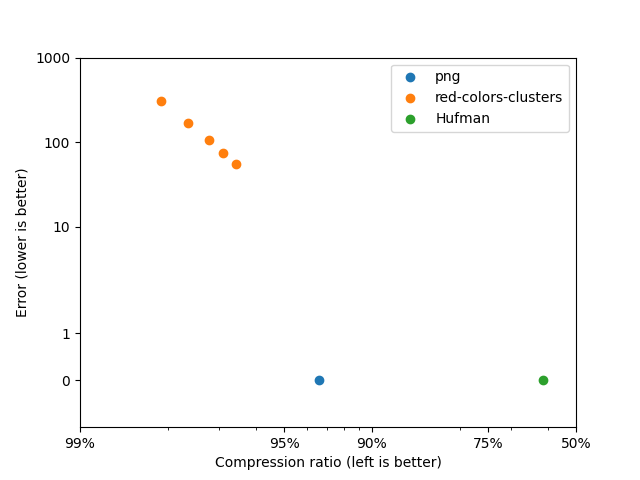
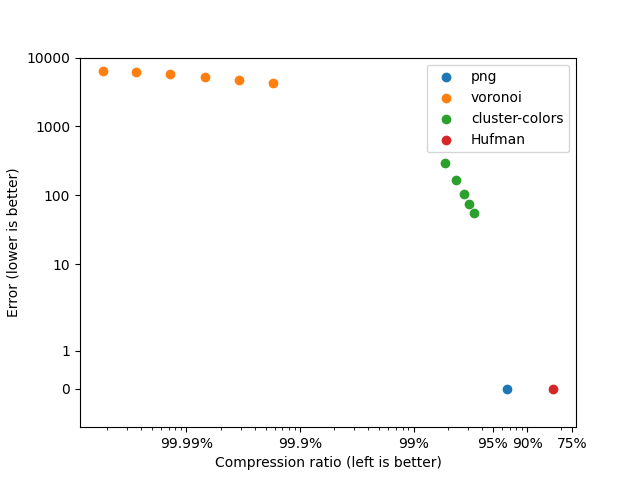
Create the diagrams via the repo's Makefile

diff --git a/src/codec/clusterc.rs b/src/codec/clusterc.rs
@@ -57,7 +57,7 @@ impl Codec for ClusterColors {
     }
 
     fn name(&self) -> String {
-        format!("red-colors-clusters_{}", self.0)
+        format!("cluster-colors_{}", self.0)
     }
 
     fn is_lossless(&self) -> bool {
@@ -118,11 +118,11 @@ impl FromStr for ClusterColors {
 
     fn from_str(s: &str) -> Result<Self, Self::Err> {
         /* Allow:
-         *   redcol(x)
-         *   reduce-colors(x)
+         *   ccol(x)
+         *   cluster-colors(x)
          * and all the in-between
          */
-        let regexp = Regex::new(r"red(?:uce)?-?col(?:ors)?\((\d+)\)").unwrap();
+        let regexp = Regex::new(r"c(?:luster)?-?col(?:ors)?\((\d+)\)").unwrap();
         let matches = regexp.captures(s)
                             .ok_or(String::from("Regex doesn't match"))?;
 

diff --git a/error_vs_compression_plot.py b/error_vs_compression_plot.py
@@ -57,11 +57,11 @@ ax = plt.gca()
 
 ax.set_xscale('log')
 ax.xaxis.set_major_formatter(ticker.FuncFormatter(lambda y, _: '{:g}'.format((1-y)*100)+'%'))
-ax.set_xticks([0.5, 0.25, 0.1, 0.05, 0.01])
+ax.set_xticks([0.25, 0.1, 0.05, 0.01, 0.001, 0.0001])
 
 ax.set_yscale('symlog')
 ax.yaxis.set_major_formatter(ticker.ScalarFormatter())
-plt.ylim(-1, 1000)
+plt.ylim(-1, 10000)
 
 plt.legend()
 

diff --git a/README.md b/README.md
@@ -31,5 +31,7 @@ The error is computed as the mean square error of each pixel in every image.
 Legend:
 * `png`: The lossless PNG codec with default parameters
 * `Hufman`: Hufman-coding the pixel colors
-* `red-colors-clusters`: cluster the image colors using K-means, then apply Hufman-coding
+* `cluster-colors`: cluster the image colors using K-means, then apply Hufman-coding
   * results are shown for 16 colors (top-left), 32, 64, 128 and 256 (bottom-right)
+* `voronoi`: cluster the pixels using K-means (position + color). Store only the clusters and reconstruct the image as a Voronoi diagram.
+  * results are shown for 64 centroids (left), 128, 256, 512, 1024 and 2048 (right)
